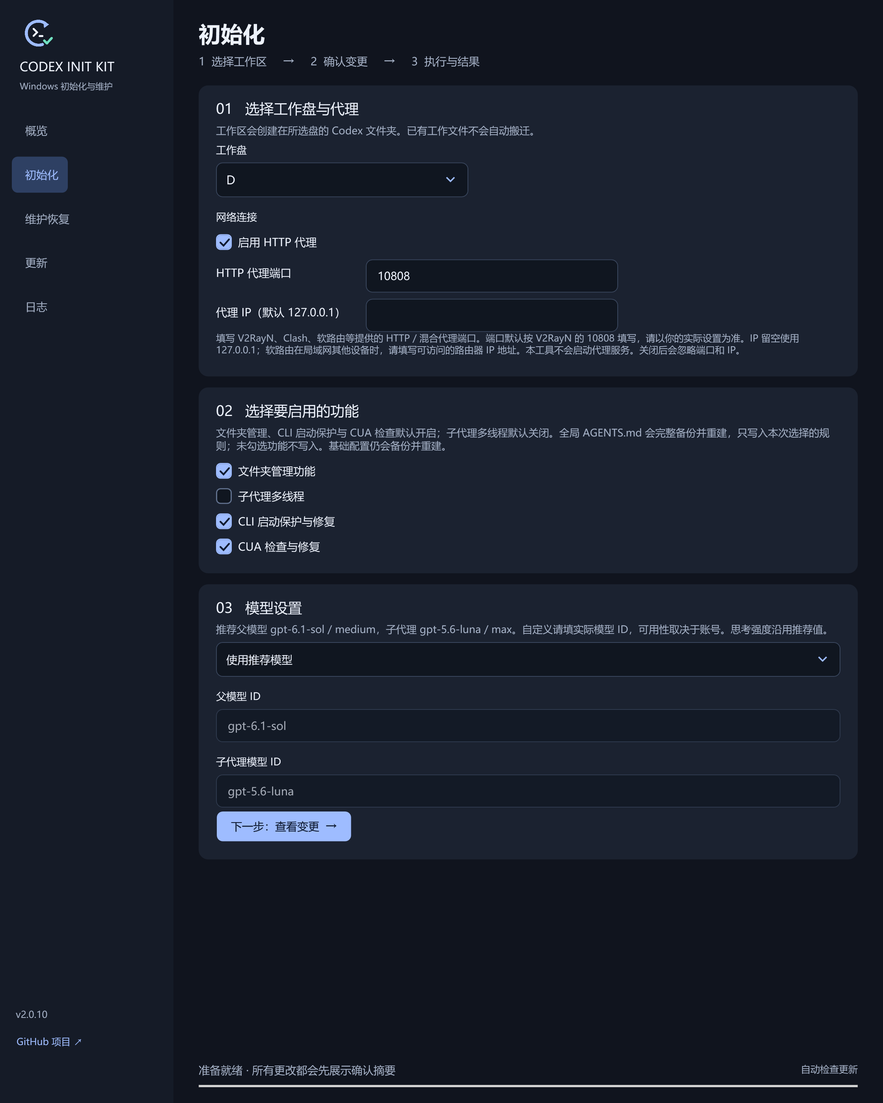
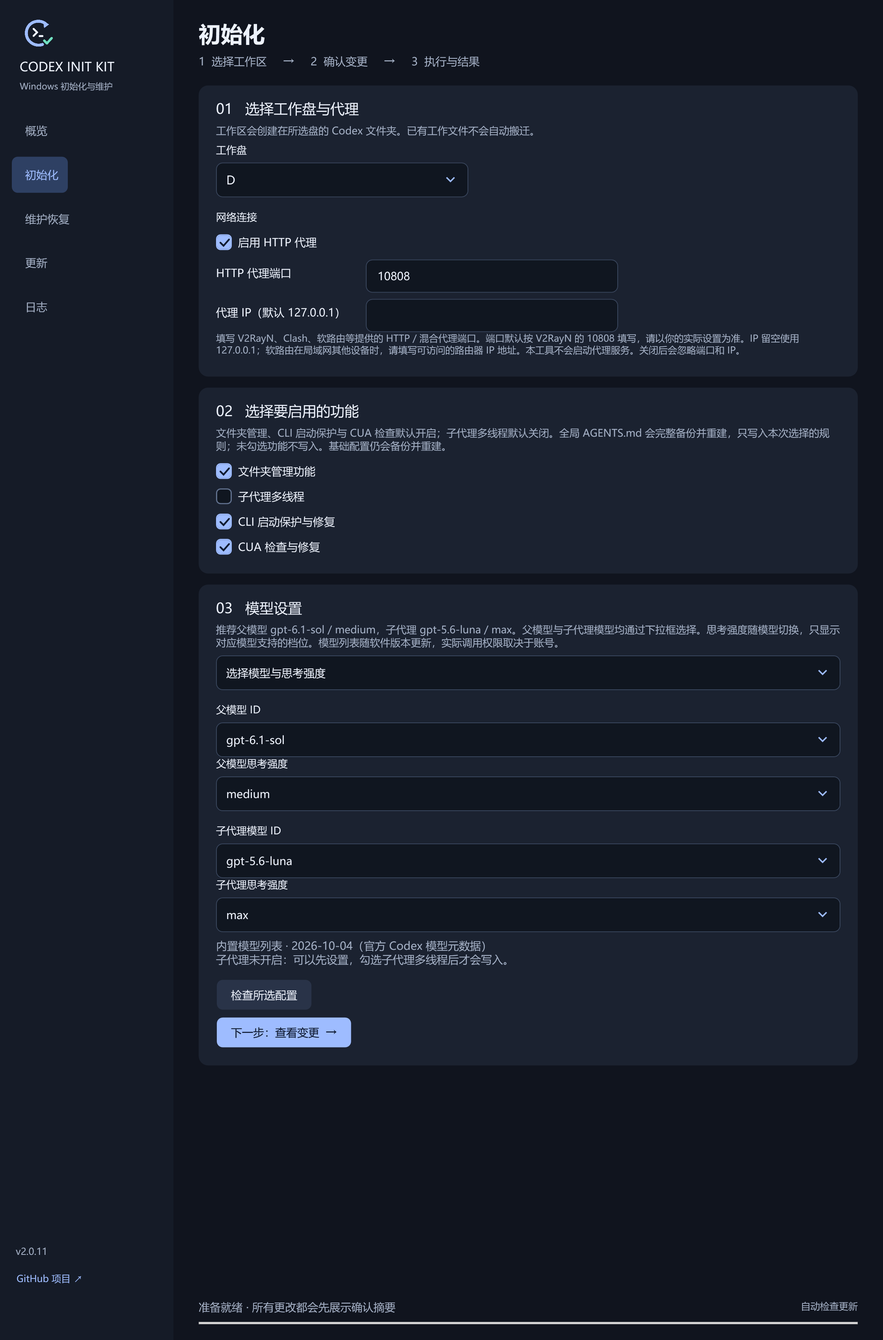
Add preset model and reasoning effort selectors

diff --git a/app/MainWindow.cs b/app/MainWindow.cs
@@ -29,7 +29,10 @@ public class MainWindow : Window {
     readonly CheckBox guard=new CheckBox();
     readonly CheckBox proxyEnabled=new CheckBox(),folderManagement=new CheckBox(),subagents=new CheckBox(),cuaRepair=new CheckBox();
     readonly ComboBox modelMode=new ComboBox();
-    readonly TextBox parentModel=new TextBox(),childModel=new TextBox();
+    readonly ComboBox parentModel=new ComboBox(),childModel=new ComboBox();
+    readonly ComboBox parentEffort=new ComboBox(),childEffort=new ComboBox();
+    readonly TextBlock modelCheck=new TextBlock();
+    ModelCatalog modelCatalog;
     Dictionary<string,object> status, update;
     string page="概览", lastLog="", operationTitle="";
     bool busy, preview, checkingUpdate;
@@ -40,10 +43,13 @@ public class MainWindow : Window {
         proxyHost.Text="192.168.1.20";var settings=Options();if(Convert.ToString(settings["proxyHost"])!="192.168.1.20")throw new InvalidOperationException("Custom proxy host was not preserved");
         proxyHost.Text="not-an-ip";var rejected=false;try{Options();}catch{rejected=true;}if(!rejected)throw new InvalidOperationException("Unsafe proxy host accepted");
         proxyEnabled.IsChecked=false;port.Text="invalid";proxyHost.Text="not-an-ip";settings=Options();if(Port()!=0||port.IsEnabled||proxyHost.IsEnabled||Convert.ToString(settings["proxyHost"])!="")throw new InvalidOperationException("Disabled proxy did not ignore its fields");proxyEnabled.IsChecked=true;port.Text="10808";proxyHost.Text="";
-        subagents.IsChecked=true;modelMode.SelectedIndex=1;parentModel.Text="custom-parent";childModel.Text="custom-child";settings=Options();if(Convert.ToString(settings["parentModel"])!="custom-parent"||Convert.ToString(settings["childModel"])!="custom-child"||!parentModel.IsEnabled||!childModel.IsEnabled)throw new InvalidOperationException("Custom model selection failed");
-        folderManagement.IsChecked=false;subagents.IsChecked=false;cuaRepair.IsChecked=false;guard.IsChecked=false;childModel.Text="";settings=Options();if((bool)settings["folderManagement"]||(bool)settings["subagents"]||(bool)settings["cuaRepair"]||childModel.IsEnabled)throw new InvalidOperationException("Optional setup switches failed");
-        parentModel.Text="bad model";rejected=false;try{Options();}catch{rejected=true;}if(!rejected)throw new InvalidOperationException("Unsafe model ID accepted");
-        parentModel.Text="gpt-6.1-sol";childModel.Text="gpt-5.6-luna";modelMode.SelectedIndex=0;folderManagement.IsChecked=true;subagents.IsChecked=false;cuaRepair.IsChecked=true;guard.IsChecked=true;proxyHost.Text="";
+        subagents.IsChecked=true;modelMode.SelectedIndex=1;parentModel.SelectedItem="gpt-6-astra";childModel.SelectedItem="gpt-6-luna";parentEffort.SelectedItem="ultra";childEffort.SelectedItem="high";settings=Options();if(Convert.ToString(settings["parentModel"])!="gpt-6-astra"||Convert.ToString(settings["childModel"])!="gpt-6-luna"||Convert.ToString(settings["parentEffort"])!="ultra"||Convert.ToString(settings["childEffort"])!="high"||parentModel.IsEditable||childModel.IsEditable||!InitSummary().Contains("gpt-6-luna / high"))throw new InvalidOperationException("Preset model selection failed");
+        if(parentModel.Items.Count!=8||childModel.Items.Count!=8||childEffort.Items.Contains("ultra"))throw new InvalidOperationException("Preset dropdown choices were lost");
+        childModel.SelectedItem="gpt-5.5";if(!childEffort.Items.Cast<string>().SequenceEqual(new[]{"low","medium","high","xhigh"}))throw new InvalidOperationException("Effort choices did not follow model selection");
+        childEffort.ItemsSource=new[]{"ultra"};childEffort.SelectedItem="ultra";rejected=false;try{Options();}catch{rejected=true;}if(!rejected)throw new InvalidOperationException("Unsupported UI effort accepted");RefreshEfforts(childEffort,"gpt-5.5","max");
+        parentModel.SelectedItem=null;parentModel.Text="vendor/custom";rejected=false;try{Options();}catch{rejected=true;}if(!rejected)throw new InvalidOperationException("Unlisted model accepted");parentModel.SelectedItem="gpt-6.1-sol";
+        folderManagement.IsChecked=false;subagents.IsChecked=false;cuaRepair.IsChecked=false;guard.IsChecked=false;settings=Options();if((bool)settings["folderManagement"]||(bool)settings["subagents"]||(bool)settings["cuaRepair"]||!childModel.IsEnabled||Convert.ToString(settings["childEffort"])!="max")throw new InvalidOperationException("Optional setup switches failed");
+        modelMode.SelectedIndex=0;folderManagement.IsChecked=true;subagents.IsChecked=false;cuaRepair.IsChecked=true;guard.IsChecked=true;proxyHost.Text="";
         var completionDialog=CreateInitializationCompletedDialog();var completionRoot=completionDialog.Content as Border;var completionPanel=completionRoot==null?null:completionRoot.Child as StackPanel;if((IsVisible&&completionDialog.Owner!=this)||completionDialog.Title!="已完成初始化"||completionPanel==null||completionPanel.Children.OfType<Button>().Count()!=1||!completionPanel.Children.OfType<TextBlock>().Any(x=>x.Text=="已完成初始化"))throw new InvalidOperationException("Initialization completion dialog is not themed or single-action");
         status=new Dictionary<string,object>{{"runtimeMode","DesktopNative"},{"runtimeModeDetail","桌面应用自带 CLI"},{"currentCliPath",""},{"protectionInstalled",false}};Navigate("概览");UpdateLayout();VerifyRuntimeDisplay("DesktopNative","由桌面应用自动选择");status["runtimeMode"]="OfficialStandalone";status["runtimeModeDetail"]="官方独立 CLI";status["currentCliPath"]="C:\\Users\\Test\\.codex\\bin\\codex.exe";Navigate("概览");UpdateLayout();VerifyRuntimeDisplay("OfficialStandalone","C:\\Users\\Test\\.codex\\bin\\codex.exe");status["runtimeMode"]="Unknown";Navigate("概览");UpdateLayout();VerifyRuntimeDisplay("Unknown","C:\\Users\\Test\\.codex\\bin\\codex.exe");status=null;
         foreach(var name in new[]{"概览","初始化","维护恢复","更新","日志","初始化"}) { Navigate(name); Measure(new Size(1120,800)); Arrange(new Rect(0,0,1120,800)); UpdateLayout(); }
@@ -61,7 +67,7 @@ public class MainWindow : Window {
         update=new Dictionary<string,object>{{"version",new Version(new Version(Core.Version).Major,new Version(Core.Version).Minor,new Version(Core.Version).Build+1).ToString()}};ApplyUpdateState();Navigate("概览");var updateView=(FrameworkElement)Content;updateView.Measure(new Size(1120,800));updateView.Arrange(new Rect(0,0,1120,800));updateView.UpdateLayout();var updateBitmap=new RenderTargetBitmap(1120,800,96,96,PixelFormats.Pbgra32);updateBitmap.Render(updateView);var updateEncoder=new PngBitmapEncoder();updateEncoder.Frames.Add(BitmapFrame.Create(updateBitmap));using(var file=File.Create(Path.Combine(directory,"检测到更新.png")))updateEncoder.Save(file);update=null;ApplyUpdateState();
     }
     public MainWindow(bool isPreview) {
-        preview=isPreview; Title="Codex Init Kit"; Width=1120; Height=800; MinWidth=940; MinHeight=720; WindowStartupLocation=WindowStartupLocation.CenterScreen;
+        preview=isPreview;modelCatalog=ModelCatalog.Preset(); Title="Codex Init Kit"; Width=1120; Height=800; MinWidth=940; MinHeight=720; WindowStartupLocation=WindowStartupLocation.CenterScreen;
         Icon=Brand.Logo();
         Background=BackgroundBrush; Foreground=TextBrush; FontFamily=new FontFamily("Microsoft YaHei UI"); FontSize=14;
         using(var styles=System.Reflection.Assembly.GetExecutingAssembly().GetManifestResourceStream("UI.Controls.xaml"))Resources.MergedDictionaries.Add((ResourceDictionary)System.Windows.Markup.XamlReader.Load(styles));
@@ -83,13 +89,21 @@ public class MainWindow : Window {
         log.IsReadOnly=true; log.AcceptsReturn=true; log.TextWrapping=TextWrapping.NoWrap; log.VerticalScrollBarVisibility=ScrollBarVisibility.Auto; log.HorizontalScrollBarVisibility=ScrollBarVisibility.Auto; log.FontFamily=new FontFamily("Consolas"); log.FontSize=12; log.Background=B("#101620"); log.Foreground=TextBrush; log.BorderThickness=new Thickness(0); log.Padding=new Thickness(14); log.Height=350;
         drive.ItemsSource=DriveInfo.GetDrives().Where(x=>x.DriveType==DriveType.Fixed && x.IsReady).Select(x=>x.Name.Substring(0,1)).ToArray(); drive.SelectedItem="D"; if(drive.SelectedIndex<0) drive.SelectedIndex=0;
         drive.Style=(Style)Resources["KitCombo"];drive.FontSize=15;drive.Width=320;drive.HorizontalAlignment=HorizontalAlignment.Left;
-        foreach(var input in new[]{port,proxyHost,parentModel,childModel})input.Style=(Style)Resources["KitInput"];
+        foreach(var input in new[]{port,proxyHost})input.Style=(Style)Resources["KitInput"];
         port.Text="10808";port.Width=320;port.HorizontalAlignment=HorizontalAlignment.Left;
         proxyHost.Text="";proxyHost.Width=320;proxyHost.HorizontalAlignment=HorizontalAlignment.Left;proxyHost.ToolTip="留空使用 127.0.0.1。软路由在局域网其他设备时，请填写可访问的路由器 IP 地址；本工具不会启动代理服务。";
         var checks=new[]{proxyEnabled,folderManagement,subagents,guard,cuaRepair};var labels=new[]{"启用 HTTP 代理","文件夹管理功能","子代理多线程","CLI 启动保护与修复","CUA 检查与修复"};for(int i=0;i<checks.Length;i++){checks[i].Style=(Style)Resources["KitCheck"];checks[i].Content=labels[i];checks[i].IsChecked=i!=2;}
         proxyEnabled.Checked+=(s,e)=>{port.IsEnabled=true;proxyHost.IsEnabled=true;};proxyEnabled.Unchecked+=(s,e)=>{port.IsEnabled=false;proxyHost.IsEnabled=false;};
-        modelMode.Style=(Style)Resources["KitCombo"];modelMode.ItemsSource=new[]{"使用推荐模型","自定义父模型与子代理模型"};modelMode.SelectedIndex=0;modelMode.SelectionChanged+=(s,e)=>UpdateModelInputs();
-        parentModel.Text="gpt-6.1-sol";childModel.Text="gpt-5.6-luna";subagents.Checked+=(s,e)=>UpdateModelInputs();subagents.Unchecked+=(s,e)=>UpdateModelInputs();UpdateModelInputs();
+        modelMode.Style=(Style)Resources["KitCombo"];modelMode.ItemsSource=new[]{"使用推荐模型","选择模型与思考强度"};modelMode.SelectedIndex=0;modelMode.SelectionChanged+=(s,e)=>UpdateModelInputs();
+        parentEffort.Style=(Style)Resources["KitCombo"];childEffort.Style=(Style)Resources["KitCombo"];
+        parentEffort.ItemsSource=ModelCatalog.CommonEfforts;parentEffort.SelectedItem="medium";childEffort.ItemsSource=ModelCatalog.CommonEfforts;childEffort.SelectedItem="max";
+        parentModel.Text="gpt-6.1-sol";childModel.Text="gpt-5.6-luna";
+        foreach(var input in new[]{parentModel,childModel}){input.Style=(Style)Resources["KitCombo"];input.IsEditable=false;input.IsTextSearchEnabled=true;input.FontSize=14;input.ToolTip="仅可从预设官方模型列表选择。";}
+        RefreshModelChoices();
+        var modelTextProperty=System.ComponentModel.DependencyPropertyDescriptor.FromProperty(ComboBox.TextProperty,typeof(ComboBox));modelTextProperty.AddValueChanged(parentModel,(s,e)=>RefreshEfforts(parentEffort,parentModel.Text,"medium"));modelTextProperty.AddValueChanged(childModel,(s,e)=>RefreshEfforts(childEffort,childModel.Text,"max"));
+        parentModel.SelectionChanged+=(s,e)=>{if(parentModel.SelectedItem!=null)RefreshEfforts(parentEffort,Convert.ToString(parentModel.SelectedItem),"medium");};childModel.SelectionChanged+=(s,e)=>{if(childModel.SelectedItem!=null)RefreshEfforts(childEffort,Convert.ToString(childModel.SelectedItem),"max");};
+        modelCheck.Foreground=MutedBrush;modelCheck.TextWrapping=TextWrapping.Wrap;modelCheck.Margin=new Thickness(0,8,0,12);
+        subagents.Checked+=(s,e)=>UpdateModelInputs();subagents.Unchecked+=(s,e)=>UpdateModelInputs();UpdateModelInputs();
         Closing+=(s,e)=>{if(busy){e.Cancel=true; MessageBox.Show(this,"操作正在执行，请等待结果后再关闭窗口。","正在执行",MessageBoxButton.OK,MessageBoxImage.Information);}};
         Navigate("概览"); Loaded+=async(s,e)=>{if(!preview) await Task.WhenAll(Run("status","读取当前状态",false),CheckUpdates(true));};
     }
@@ -105,7 +119,7 @@ public class MainWindow : Window {
     Button Link(string label,Action action) { var b=Button(label,action,false); b.Background=Brushes.Transparent; b.Foreground=Accent; b.Padding=new Thickness(0,6,0,6); b.FontSize=12; return b; }
     StackPanel Card(string title,string description) { var p=new StackPanel{Margin=new Thickness(22,18,22,18)}; p.Children.Add(T(title,18,TextBrush)); if(description.Length>0)p.Children.Add(T(description,13,MutedBrush)); var box=new Border{Background=PanelBrush,CornerRadius=new CornerRadius(12),Margin=new Thickness(0,0,0,14),Child=p}; content.Children.Add(box); return p; }
     void Row(StackPanel parent,params UIElement[] items) { var row=new WrapPanel(); foreach(var item in items)row.Children.Add(item); parent.Children.Add(row); }
-    void Navigate(string name) { foreach(var control in new FrameworkElement[]{drive,port,proxyHost,guard,log,proxyEnabled,folderManagement,subagents,cuaRepair,modelMode,parentModel,childModel}) { var parent=control.Parent as Panel; if(parent!=null)parent.Children.Remove(control); } page=name; content.Children.Clear(); heading.Text=name; foreach(var b in navigation){b.Background=Convert.ToString(b.Content)==name?B("#2E4063"):Brushes.Transparent; b.Foreground=Convert.ToString(b.Content)==name?Accent:MutedBrush;}
+    void Navigate(string name) { foreach(var control in new FrameworkElement[]{drive,port,proxyHost,guard,log,proxyEnabled,folderManagement,subagents,cuaRepair,modelMode,parentModel,childModel,parentEffort,childEffort,modelCheck}) { var parent=control.Parent as Panel; if(parent!=null)parent.Children.Remove(control); } page=name; content.Children.Clear(); heading.Text=name; foreach(var b in navigation){b.Background=Convert.ToString(b.Content)==name?B("#2E4063"):Brushes.Transparent; b.Foreground=Convert.ToString(b.Content)==name?Accent:MutedBrush;}
         if(name=="概览")Overview(); else if(name=="初始化")Wizard(); else if(name=="维护恢复")Maintenance(); else if(name=="更新")Updates(); else LogsPage();
     }
     void Overview() {
@@ -124,11 +138,16 @@ public class MainWindow : Window {
     static string RuntimeMode(object value) { var text=Convert.ToString(value);if(text=="DesktopNative")return "桌面原生";if(text=="OfficialStandalone")return "官方独立 CLI";return "需要检查"; }
     void VerifyRuntimeDisplay(string mode,string path) { var card=content.Children.Count>1?content.Children[1] as Border:null;var panel=card==null?null:card.Child as StackPanel;var texts=panel==null?new string[0]:panel.Children.OfType<TextBlock>().Select(x=>x.Text).ToArray();if(!texts.Any(x=>x.Contains(RuntimeMode(mode)))||!texts.Any(x=>x.Contains(path)))throw new InvalidOperationException("Runtime mode status was not displayed"); }
     int Port() { if(proxyEnabled.IsChecked!=true)return 0;int v; if(!int.TryParse(port.Text,out v)||v<1||v>65535)throw new InvalidOperationException("代理端口需为 1–65535 的整数。"); return v; }
-    void UpdateModelInputs(){parentModel.IsEnabled=modelMode.SelectedIndex==1;childModel.IsEnabled=modelMode.SelectedIndex==1&&subagents.IsChecked==true;}
-    string Model(TextBox input,string fallback){var value=modelMode.SelectedIndex==1?input.Text.Trim():fallback;if(!System.Text.RegularExpressions.Regex.IsMatch(value,"^[A-Za-z0-9][A-Za-z0-9._/:+-]{0,127}$"))throw new InvalidOperationException("请输入有效模型 ID，例如 gpt-6.1-sol；不能包含空格。");return value;}
+    void UpdateModelInputs(){var custom=modelMode.SelectedIndex==1;parentModel.IsEnabled=custom;childModel.IsEnabled=custom;parentEffort.IsEnabled=custom;childEffort.IsEnabled=custom;if(!custom){parentModel.SelectedItem="gpt-6.1-sol";childModel.SelectedItem="gpt-5.6-luna";parentEffort.SelectedItem="medium";childEffort.SelectedItem="max";}RefreshEfforts(parentEffort,Convert.ToString(parentModel.SelectedItem),"medium");RefreshEfforts(childEffort,Convert.ToString(childModel.SelectedItem),"max");modelCheck.Text=modelCatalog.Source+"\n"+(subagents.IsChecked==true?"子代理已开启：将写入所选子代理模型和思考强度。":"子代理未开启：可以先设置，勾选子代理多线程后才会写入。");}
+    void RefreshEfforts(ComboBox combo,string model,string fallback){CatalogModel entry;var values=modelCatalog.Models.TryGetValue((model??"").Trim(),out entry)?entry.Efforts:new string[0];var current=Convert.ToString(combo.SelectedItem);combo.ItemsSource=values;combo.SelectedItem=values.Contains(current)?current:values.Contains(fallback)?fallback:entry!=null&&values.Contains(entry.DefaultEffort)?entry.DefaultEffort:values.FirstOrDefault();}
+    string Effort(ComboBox combo,string fallback){return modelMode.SelectedIndex==1?Convert.ToString(combo.SelectedItem):fallback;}
+    void CheckModels(){try{modelCatalog=ModelCatalog.Preset();RefreshModelChoices();RefreshEfforts(parentEffort,parentModel.Text,"medium");RefreshEfforts(childEffort,childModel.Text,"max");var p=Model(parentModel,"gpt-6.1-sol");var c=Model(childModel,"gpt-5.6-luna");modelCheck.Text=modelCatalog.Source+"\n"+modelCatalog.Check(p,Effort(parentEffort,"medium"))+"\n"+modelCatalog.Check(c,Effort(childEffort,"max"))+"\n预设列表不代表当前账号一定有调用权限。";}catch(Exception ex){modelCheck.Text=ex.Message;}}
+    void RefreshModelChoices(){var values=modelCatalog.Models.Keys.ToArray();foreach(var combo in new[]{parentModel,childModel}){var current=Convert.ToString(combo.SelectedItem);if(current.Length==0)current=combo==parentModel?"gpt-6.1-sol":"gpt-5.6-luna";combo.ItemsSource=values;combo.SelectedItem=values.Contains(current)?current:values.FirstOrDefault();}}
+    string Model(ComboBox input,string fallback){var value=modelMode.SelectedIndex==1?Convert.ToString(input.SelectedItem):fallback;if(!modelCatalog.Models.ContainsKey(value))throw new InvalidOperationException("请从下拉框选择预设模型。");return value;}
     string ProxyHost() { if(proxyEnabled.IsChecked!=true)return "";var text=(proxyHost.Text??"").Trim();if(text.Length==0)return Core.DefaultProxyHost;System.Net.IPAddress address;if(!System.Net.IPAddress.TryParse(text,out address))throw new InvalidOperationException("代理 IP 必须是有效的 IPv4 或 IPv6 地址。");return address.ToString(); }
-    Dictionary<string,object> Options(){return new Dictionary<string,object>{{"proxyHost",ProxyHost()},{"folderManagement",folderManagement.IsChecked==true},{"subagents",subagents.IsChecked==true},{"cuaRepair",cuaRepair.IsChecked==true},{"parentModel",Model(parentModel,"gpt-6.1-sol")},{"childModel",subagents.IsChecked==true?Model(childModel,"gpt-5.6-luna"):"gpt-5.6-luna"}};}
+    Dictionary<string,object> Options(){var p=Model(parentModel,"gpt-6.1-sol");var pe=Effort(parentEffort,"medium");var c=subagents.IsChecked==true?Model(childModel,"gpt-5.6-luna"):"gpt-5.6-luna";var ce=subagents.IsChecked==true?Effort(childEffort,"max"):"max";modelCatalog.Check(p,pe);if(subagents.IsChecked==true)modelCatalog.Check(c,ce);return new Dictionary<string,object>{{"proxyHost",ProxyHost()},{"folderManagement",folderManagement.IsChecked==true},{"subagents",subagents.IsChecked==true},{"cuaRepair",cuaRepair.IsChecked==true},{"parentModel",p},{"parentEffort",pe},{"childModel",c},{"childEffort",ce}};}
     Dictionary<string,object> ProxyOptions(){return new Dictionary<string,object>{{"proxyHost",ProxyHost()}};}
+    string ModelChecks(Dictionary<string,object> options){return modelCatalog.Source+"\n"+modelCatalog.Check(Convert.ToString(options["parentModel"]),Convert.ToString(options["parentEffort"]))+(subagents.IsChecked==true?"\n"+modelCatalog.Check(Convert.ToString(options["childModel"]),Convert.ToString(options["childEffort"])):"")+"\n核对结果不代表账号实时调用权限。";}
     string ProxySummary(){var value=Port();if(value==0)return "关闭（不写入本地 HTTP 代理）";var host=ProxyHost();if(host.Contains(":")&&!host.StartsWith("["))host="["+host+"]";return "http://"+host+":"+value;}
     string Drive() { if(drive.SelectedItem==null)throw new InvalidOperationException("请选择可用的工作盘。"); return Convert.ToString(drive.SelectedItem); }
     void Wizard() {
@@ -141,7 +160,7 @@ public class MainWindow : Window {
             var hostRow=new StackPanel{Orientation=Orientation.Horizontal};hostRow.Children.Add(new TextBlock{Text="代理 IP（默认 127.0.0.1）",Width=180,Foreground=TextBrush,VerticalAlignment=VerticalAlignment.Center,Margin=new Thickness(0,0,10,8)});hostRow.Children.Add(proxyHost);proxyRows.Children.Add(hostRow);p.Children.Add(proxyRows);
             p.Children.Add(T("填写 V2RayN、Clash、软路由等提供的 HTTP／混合代理端口。端口默认按 V2RayN 的 10808 填写，请以你的实际设置为准。IP 留空使用 127.0.0.1；软路由在局域网其他设备时，请填写可访问的路由器 IP 地址。本工具不会启动代理服务。关闭后会忽略端口和 IP。",12,MutedBrush));
             var features=Card("02   选择要启用的功能","文件夹管理、CLI 启动保护与 CUA 检查默认开启；子代理多线程默认关闭。全局 AGENTS.md 会完整备份并重建，只写入本次选择的规则；未勾选功能不写入。基础配置仍会备份并重建。");foreach(var check in new[]{folderManagement,subagents,guard,cuaRepair})features.Children.Add(check);
-            var models=Card("03   模型设置","推荐父模型 gpt-6.1-sol / medium，子代理 gpt-5.6-luna / max。自定义请填实际模型 ID，可用性取决于账号。思考强度沿用推荐值。");models.Children.Add(modelMode);models.Children.Add(T("\n父模型 ID",13,TextBrush));models.Children.Add(parentModel);models.Children.Add(T("\n子代理模型 ID",13,TextBrush));models.Children.Add(childModel);
+            var models=Card("03   模型设置","推荐父模型 gpt-6.1-sol / medium，子代理 gpt-5.6-luna / max。父模型与子代理模型均通过下拉框选择。思考强度随模型切换，只显示对应模型支持的档位。模型列表随软件版本更新，实际调用权限取决于账号。");models.Children.Add(modelMode);models.Children.Add(T("\n父模型 ID",13,TextBrush));models.Children.Add(parentModel);models.Children.Add(T("父模型思考强度",13,TextBrush));models.Children.Add(parentEffort);models.Children.Add(T("\n子代理模型 ID",13,TextBrush));models.Children.Add(childModel);models.Children.Add(T("子代理思考强度",13,TextBrush));models.Children.Add(childEffort);models.Children.Add(modelCheck);models.Children.Add(Button("检查所选配置",()=>CheckModels(),false));
             models.Children.Add(Button("下一步：查看变更  →",()=>{try{Port();Drive();Options();wizard=1;Navigate("初始化");}catch(Exception ex){Error(ex);}},true));
         } else if(wizard==1) {
             var p=Card("02   确认初始化","将更新当前 Windows 用户的 Codex 配置。执行时会请求管理员授权。");
@@ -149,7 +168,7 @@ public class MainWindow : Window {
             Row(p,Button("返回修改",()=>{wizard=0;Navigate("初始化");},false),Button("确认并开始初始化",async()=>{if(Confirm("开始初始化",InitSummary()+"\n\n将停止正在运行的 Codex 进程。请先保存其他窗口的工作。")){wizard=2;Navigate("初始化");await Run("initialize","初始化",false);}},true));
         } else { var p=Card("03   执行与结果",busy?"正在执行，请保留窗口。":"完整结果与备份位置见下方日志。"); p.Children.Add(log); Row(p,Button("查看全部日志",()=>Navigate("日志"),false),Button("重新设置",()=>{if(!busy){wizard=0;Navigate("初始化");}},false)); }
     }
-    string InitSummary() {var options=Options();return "工作盘："+Drive()+":\n父模型："+options["parentModel"]+" / medium\n子代理："+(subagents.IsChecked==true?options["childModel"]+" / max":"关闭，不写入子代理规则")+"\n代理："+ProxySummary()+"\n文件夹管理："+(folderManagement.IsChecked==true?"创建并绑定标准目录":"跳过")+"\nCUA 检查与修复："+(cuaRepair.IsChecked==true?"按需执行":"跳过")+"\nCLI 启动保护与修复："+(guard.IsChecked==true?"安装，包含登录自动维护":"跳过")+"\n基础配置及全局 AGENTS.md 将完整备份并重建；原自定义指令只保存在备份中。项目内的 AGENTS.md 不变。更新用户 PATH。初始化和 CUA 分别备份。";}
+    string InitSummary() {var options=Options();return "工作盘："+Drive()+":\n父模型："+options["parentModel"]+" / "+options["parentEffort"]+"\n子代理："+(subagents.IsChecked==true?options["childModel"]+" / "+options["childEffort"]:"关闭，不写入子代理规则")+"\n代理："+ProxySummary()+"\n文件夹管理："+(folderManagement.IsChecked==true?"创建并绑定标准目录":"跳过")+"\nCUA 检查与修复："+(cuaRepair.IsChecked==true?"按需执行":"跳过")+"\nCLI 启动保护与修复："+(guard.IsChecked==true?"安装，包含登录自动维护":"跳过")+"\n"+ModelChecks(options)+"\n基础配置及全局 AGENTS.md 将完整备份并重建；原自定义指令只保存在备份中。项目内的 AGENTS.md 不变。更新用户 PATH。初始化和 CUA 分别备份。";}
     void ActionCard(string title,string description,string label,string op,bool danger) {
         var p=Card(title,description); p.Children.Add(Button(label,async()=>await Run(op,title,true),!danger));
     }

diff --git a/app/ModelCatalog.cs b/app/ModelCatalog.cs
@@ -1,0 +1,57 @@
+using System;
+using System.Collections;
+using System.Collections.Generic;
+using System.IO;
+using System.Linq;
+using System.Text;
+using System.Text.RegularExpressions;
+using System.Web.Script.Serialization;
+
+namespace CodexKit {
+public sealed class CatalogModel {
+    public string Id, DefaultEffort;
+    public string[] Efforts;
+}
+public sealed class ModelCatalog {
+    public readonly Dictionary<string,CatalogModel> Models=new Dictionary<string,CatalogModel>(StringComparer.Ordinal);
+    public string Source="尚未读取本机模型列表";
+    public static readonly string[] CommonEfforts={"none","minimal","low","medium","high","xhigh","max","ultra"};
+    public static bool ValidId(string value){return value!=null&&Regex.IsMatch(value,"^[A-Za-z0-9][A-Za-z0-9._/:+-]{0,127}\\z");}
+    public static ModelCatalog Preset(){
+        var result=new ModelCatalog{Source="内置模型列表 · 2026-10-04（官方 Codex 模型元数据）"};
+        foreach(var id in new[]{"gpt-6.1-sol","gpt-6-astra","gpt-6-sol","gpt-6-luna","gpt-5.6-sol","gpt-5.6-terra","gpt-5.6-luna","gpt-5.5"}){
+            var efforts=id=="gpt-5.5"?new[]{"low","medium","high","xhigh"}:id.EndsWith("-luna")?new[]{"low","medium","high","xhigh","max"}:new[]{"low","medium","high","xhigh","max","ultra"};
+            result.Models[id]=new CatalogModel{Id=id,DefaultEffort="medium",Efforts=efforts};
+        }
+        return result;
+    }
+    public static ModelCatalog Parse(string json) {
+        var result=new ModelCatalog();var parser=new JavaScriptSerializer{MaxJsonLength=4*1024*1024};
+        var root=parser.DeserializeObject(json) as Dictionary<string,object>;
+        if(root==null||!root.ContainsKey("models"))throw new InvalidDataException("模型列表格式无法识别。");
+        var models=root["models"] as IEnumerable;if(models==null)throw new InvalidDataException("模型列表为空。");
+        foreach(var item in models) {
+            var row=item as Dictionary<string,object>;if(row==null)continue;
+            var id=Get(row,"slug");if(!ValidId(id)||Get(row,"visibility")=="hide")continue;
+            var levels=new List<string>();object raw;
+            if(row.TryGetValue("supported_reasoning_levels",out raw)&&raw is IEnumerable)foreach(var level in (IEnumerable)raw){var entry=level as Dictionary<string,object>;if(entry==null)continue;var effort=Get(entry,"effort");if(Regex.IsMatch(effort,"^[A-Za-z][A-Za-z0-9_-]{0,31}$")&&!levels.Contains(effort))levels.Add(effort);}
+            if(levels.Count>0)result.Models[id]=new CatalogModel{Id=id,DefaultEffort=Get(row,"default_reasoning_level"),Efforts=levels.ToArray()};
+        }
+        if(result.Models.Count==0)throw new InvalidDataException("本机没有可供核对的模型记录。");
+        DateTimeOffset fetched;var timestamp=Get(root,"fetched_at");
+        result.Source="本机 Codex 模型缓存";
+        if(DateTimeOffset.TryParse(timestamp,out fetched)){result.Source+=" · "+fetched.ToLocalTime().ToString("yyyy-MM-dd HH:mm");if(DateTimeOffset.UtcNow-fetched>TimeSpan.FromHours(24))result.Source+="（超过 24 小时）";}
+        return result;
+    }
+    static string Get(Dictionary<string,object> row,string key){object value;return row.TryGetValue(key,out value)?Convert.ToString(value):"";}
+    public string Check(string model,string effort) {
+        if(!ValidId(model))throw new InvalidOperationException("模型 ID 格式不正确，例如 gpt-6.1-sol；不能填写展示名称或空格。");
+        if(!Regex.IsMatch(effort??"","^[A-Za-z][A-Za-z0-9_-]{0,31}$"))throw new InvalidOperationException("请选择有效的思考强度。");
+        CatalogModel entry;
+        if(!Models.TryGetValue(model,out entry))throw new InvalidOperationException("模型不在当前列表中，请重新检查并从下拉框选择。");
+        if(entry.Efforts.Length==0)return "已找到 "+model+"，但列表未提供思考强度；该强度尚未验证。";
+        if(!entry.Efforts.Contains(effort))throw new InvalidOperationException(model+" 的本机记录不支持 "+effort+"；支持："+string.Join("、",entry.Efforts));
+        return "配置核对通过："+model+" / "+effort+"。";
+    }
+}
+}

diff --git a/app/Program.cs b/app/Program.cs
@@ -54,6 +54,10 @@ public static class Program {
             var testScript="$ErrorActionPreference='Stop';try { & '"+Path.Combine(dir,"Backend.Tests.ps1").Replace("'","''")+"' -PayloadRoot '"+dir.Replace("'","''")+"' -BackendPath '"+Path.Combine(dir,"Backend.ps1").Replace("'","''")+"';exit 0 } catch { $_|Out-String|Write-Output;exit 1 }";
             info.Arguments="-NoProfile -NonInteractive -EncodedCommand "+Convert.ToBase64String(Encoding.Unicode.GetBytes(testScript));
             using(var proc=Process.Start(info)){var output=proc.StandardOutput.ReadToEnd()+proc.StandardError.ReadToEnd();proc.WaitForExit();checks["backend_regressions"]=proc.ExitCode==0;if(proc.ExitCode!=0)errors.Add(output);}
+            var catalog=ModelCatalog.Parse("{\"models\":[{\"slug\":\"fixture-model\",\"default_reasoning_level\":\"high\",\"supported_reasoning_levels\":[{\"effort\":\"high\"},{\"effort\":\"low\"}]}]}");
+            if(!catalog.Check("fixture-model","high").Contains("核对通过")||catalog.Models["fixture-model"].Efforts[0]!="high")throw new InvalidDataException("Model catalog validation or ordering failed");
+            foreach(var bad in new[]{"display name","bad;model","fixture-model\n"})if(ModelCatalog.ValidId(bad))throw new InvalidDataException("Unsafe model catalog ID accepted");
+            bool unsupported=false;try{catalog.Check("fixture-model","ultra");}catch(InvalidOperationException){unsupported=true;}if(!unsupported)throw new InvalidDataException("Unsupported model effort accepted");unsupported=false;try{catalog.Check("vendor/custom:v1","max");}catch(InvalidOperationException){unsupported=true;}if(!unsupported)throw new InvalidDataException("Unlisted model accepted");var preset=ModelCatalog.Preset();if(preset.Models.Count!=8||preset.Models["gpt-5.6-luna"].Efforts.Contains("ultra"))throw new InvalidDataException("Preset model choices changed");checks["model_catalog_validation"]=true;
             var app=new Application(); var window=new MainWindow(true);window.VerifyPages(); checks["pages_and_navigation"]=true; window.Close();
             checks["worker_rejects_invalid_operation"]=Core.Worker(new[]{"--worker","invalid",Guid.NewGuid().ToString("N"),"D","10808","0",Core.Sid})==64;
             checks["worker_rejects_invalid_drive"]=Core.Worker(new[]{"--worker","status",Guid.NewGuid().ToString("N"),"&","10808","0",Core.Sid})==64;

diff --git a/app/Core.cs b/app/Core.cs
@@ -16,7 +16,7 @@ using System.Net.Sockets;
 
 namespace CodexKit {
 public static class Core {
-    public const string Version = "2.0.10";
+    public const string Version = "2.0.11";
     public const string Repository = "BerryFuwawa/codex-init-kit";
     public static readonly string Root = Path.Combine(Environment.GetFolderPath(Environment.SpecialFolder.LocalApplicationData), "CodexInitKit", "Desktop");
     public static readonly JavaScriptSerializer Json = new JavaScriptSerializer();

diff --git a/app/AssemblyInfo.cs b/app/AssemblyInfo.cs
@@ -2,5 +2,5 @@ using System.Reflection;
 [assembly:AssemblyTitle("Codex Init Kit")]
 [assembly:AssemblyDescription("Codex workspace initialization, CUA repair and startup protection")]
 [assembly:AssemblyProduct("Codex Init Kit Desktop")]
-[assembly:AssemblyVersion("2.0.10.0")]
-[assembly:AssemblyFileVersion("2.0.10.0")]
+[assembly:AssemblyVersion("2.0.11.0")]
+[assembly:AssemblyFileVersion("2.0.11.0")]

diff --git a/docs/Desktop.md b/docs/Desktop.md
@@ -1,4 +1,4 @@
-# Codex Init Kit Desktop 2.0.10
+# Codex Init Kit Desktop 2.0.11
 
 这个程序把初始化、电脑操作组件修复和启动维护放进一个窗口。下载 `CodexInitKit.exe` 就能使用，所需脚本已包含在程序里。
 
@@ -26,9 +26,9 @@ CUA 组件目录为 `%LOCALAPPDATA%\OpenAI\Codex\runtimes\cua_node`。有些 Win
 
 ## 获取与启动
 
-v2.0.10 已发布：[BerryFuwawa/codex-init-kit v2.0.10](https://github.com/BerryFuwawa/codex-init-kit/releases/tag/v2.0.10)。下载 [CodexInitKit.exe](https://github.com/BerryFuwawa/codex-init-kit/releases/download/v2.0.10/CodexInitKit.exe) 即可启动，无需旁置 CMD 或自行编译。环境要求为 Windows x64、.NET Framework 4.8 和 Windows PowerShell 5.1；EXE 尚未做代码签名。
+v2.0.11 已发布：[BerryFuwawa/codex-init-kit v2.0.11](https://github.com/BerryFuwawa/codex-init-kit/releases/tag/v2.0.11)。下载 [CodexInitKit.exe](https://github.com/BerryFuwawa/codex-init-kit/releases/download/v2.0.11/CodexInitKit.exe) 即可启动，无需旁置 CMD 或自行编译。环境要求为 Windows x64、.NET Framework 4.8 和 Windows PowerShell 5.1；EXE 尚未做代码签名。
 
-正式文件的 SHA-256 与大小可在发布页资产信息和 [SHA256SUMS.txt](https://github.com/BerryFuwawa/codex-init-kit/releases/download/v2.0.10/SHA256SUMS.txt) 中核对。
+正式文件的 SHA-256 与大小可在发布页资产信息和 [SHA256SUMS.txt](https://github.com/BerryFuwawa/codex-init-kit/releases/download/v2.0.11/SHA256SUMS.txt) 中核对。
 
 首次使用可直接下载 EXE。已有版本可启动后检查更新，也可手动下载替换。
 
@@ -38,7 +38,7 @@ v2.0.10 已发布：[BerryFuwawa/codex-init-kit v2.0.10](https://github.com/Berr
 
 ## 页面
 
-「初始化」支持代理开关（默认开启，端口 `10808`）、四项可选功能（子代理默认关闭，其余默认开启），以及推荐／自定义模型。每次完整初始化都会先完整备份全局 `CODEX_HOME\AGENTS.md`，再用RTK 引用和基础工作规则重建；文件夹管理块、Luna 子代理块只在对应选项勾选时追加。子代理多线程未勾选时会将 `multi_agent` 设为 `false`，并且不写入 Luna 块或基础规则中的 `SUBAGENTS` 段落。旧的全局自定义内容只保存在本次会话备份中，项目目录中的 `AGENTS.md` 不受影响。基础配置仍会备份并重建。第一行填写代理端口，第二行填写 IP，留空使用 "127.0.0.1"。初始化全部成功后会弹出完成提示，点击「确认」关闭。概览会分别显示当前 CLI 模式和启动保护安装状态；模式依据当前启动配置判断，异常覆盖不会直接归类为官方独立 CLI。各选项的作用和填写方法见 [初始化选项](Settings.md)。
+「初始化」支持代理开关（默认开启，端口 `10808`）、四项可选功能（子代理默认关闭，其余默认开启），以及推荐／手动选择模型。每次完整初始化都会先完整备份全局 `CODEX_HOME\AGENTS.md`，再用RTK 引用和基础工作规则重建；文件夹管理块、Luna 子代理块只在对应选项勾选时追加。子代理多线程未勾选时会将 `multi_agent` 设为 `false`，并且不写入 Luna 块或基础规则中的 `SUBAGENTS` 段落。旧的全局自定义内容只保存在本次会话备份中，项目目录中的 `AGENTS.md` 不受影响。基础配置仍会备份并重建。第一行填写代理端口，第二行填写 IP，留空使用 "127.0.0.1"。初始化全部成功后会弹出完成提示，点击「确认」关闭。概览会分别显示当前 CLI 模式和启动保护安装状态；模式依据当前启动配置判断，异常覆盖不会直接归类为官方独立 CLI。各选项的作用和填写方法见 [初始化选项](Settings.md)。
 
 确认页会明确提示这是全局重置。原 `AGENTS.md` 的完整副本位于本次初始化会话的 `Backups\AGENTS.md`，由该会话已有的 `Rollback.cmd` 恢复；项目目录中的 `AGENTS.md` 不属于重置范围。
 
@@ -56,7 +56,7 @@ v2.0.10 已发布：[BerryFuwawa/codex-init-kit v2.0.10](https://github.com/Berr
 
 | 项目 | 默认值或位置 |
 | --- | --- |
-| 版本 | `2.0.10` |
+| 版本 | `2.0.11` |
 | 内嵌初始化组件 | `4.8.3` |
 | 内嵌启动保护组件 | `5.2.1` |
 | 工作目录 | `<盘符>:\Codex`；默认选 `D`，不可用时选择第一个可用固定盘 |

diff --git a/README.md b/README.md
@@ -55,7 +55,7 @@
 
 ## 第一次用，怎么选？
 
-初始化页面可以选择代理、功能和模型。HTTP 代理默认开启，端口预填 `10808`，IP 留空使用 `127.0.0.1`；文件夹管理、CLI 启动保护和 CUA 默认勾选，子代理默认不勾选。也可以选择「自定义」填写父模型和子代理模型 ID。
+初始化页面可以选择代理、功能和模型。HTTP 代理默认开启，端口预填 `10808`，IP 留空使用 `127.0.0.1`；文件夹管理、CLI 启动保护和 CUA 默认勾选，子代理默认不勾选。模型默认使用推荐组合，也可切换到「选择模型与思考强度」，用下拉框分别选择。
 
 **初始化会先备份，再清空重建全局 `AGENTS.md`。** 新文件包含 RTK 引用和基础规则，文件夹、子代理规则只在勾选时写入。不勾选子代理时，多线程配置关闭，也不会留下旧 Luna 指令或基础规则中的并行要求。旧的全局自定义内容只保存在备份中；各项目自己的 `AGENTS.md` 不受影响。
 
@@ -110,7 +110,9 @@
 | 并行与深度 | 最多 6 个子代理，委派深度 1 |
 | HTTP 代理 | 默认开启，`http://127.0.0.1:10808`；可填写端口、IP 或取消勾选关闭 |
 
-端口按 V2RayN 常用设置预填，也可使用 Clash 等软件提供的 HTTP／混合端口。使用软路由时，第一行填写它的代理端口，第二行填写 IP，例如 `192.168.1.1`；IP 留空使用 `127.0.0.1`。自定义模型的思考强度沿用父模型 `medium`、子代理 `max`，请以实际账号可用的模型为准。
+端口按 V2RayN 常用设置预填，也可使用 Clash 等软件提供的 HTTP／混合端口。使用软路由时，第一行填写它的代理端口，第二行填写 IP，例如 `192.168.1.1`；IP 留空使用 `127.0.0.1`。
+
+父模型、子代理模型和各自的思考强度均通过下拉框选择，不支持手动输入。内置 8 个模型，按 2026-10-04 官方 Codex 客户端返回的模型元数据预设；思考强度随所选模型展示对应档位。子代理未勾选时也可以提前选择，勾选后才会写入。「检查所选配置」核对模型与强度组合。列表随本工具版本更新，不依赖本机缓存；实际调用权限仍取决于账号。
 
 工作根目录包含 `Conversations`、`Projects`、`OUT`、`Temp`、`Shared`、`Archive`、`Config` 和 `Docs` 八个子目录。已有工作文件不会自动搬迁。
 
@@ -138,7 +140,7 @@
 ![Codex Init Kit 概览页面](assets/screenshots/overview.png)
 
 <details>
-<summary>展开查看初始化选项：代理开关、四项功能和自定义模型</summary>
+<summary>展开查看初始化选项：代理开关、四项功能和模型选择</summary>
 
 ![Codex Init Kit 初始化设置完整内容预览](assets/screenshots/settings.png)
 
@@ -148,7 +150,7 @@
 
 ![Codex Init Kit 维护恢复页面](assets/screenshots/maintenance.png)
 
-图片来自当前 2.0.10 EXE，按 192 DPI（200% 缩放）离线渲染，点击图片可查看高清原图。初始化设置图包含代理端口与 IP、四项功能选择和自定义模型；子代理默认未勾选。图中展开了完整内容，实际窗口可滚动。概览使用示例状态，未执行真实初始化或修复，状态以你电脑上的检测结果为准。
+图片来自当前 2.0.11 EXE，按 192 DPI（200% 缩放）离线渲染，点击图片可查看高清原图。初始化设置图包含代理端口与 IP、四项功能选择和模型选择；子代理默认未勾选。模型设置图展示模型选择模式，默认仍使用推荐模型。图中展开了完整内容，实际窗口可滚动。概览使用示例状态，未执行真实初始化或修复，状态以你电脑上的检测结果为准。
 
 ## CLI 验证与源码构建
 

diff --git a/docs/Settings.md b/docs/Settings.md
@@ -1,4 +1,4 @@
-# 初始化选项（2.0.10）
+# 初始化选项（2.0.11）
 
 可在初始化页面选择代理、功能和模型，确认页会展示本次实际选择。
 
@@ -25,7 +25,17 @@
 
 默认选择「使用推荐模型」：父模型 `gpt-6.1-sol / medium`，子代理 `gpt-5.6-luna / max`。
 
-选择「自定义父模型与子代理模型」后，可以填写两者的模型 ID，例如 `gpt-6.1-sol`。子代理功能关闭时不需要填写子代理模型。父模型思考强度沿用 `medium`，子代理沿用 `max`；请使用支持这些设置、且账号有权限使用的模型。工具检查输入格式，不验证模型服务端可用性。
+选择「选择模型与思考强度」后，父模型、子代理模型和各自的思考强度均用下拉框选择，不提供手动输入。切换模型时，思考强度只显示对应模型支持的档位。子代理未勾选时也能提前设置，但本次初始化不会写入这些子代理设置。
+
+列表按 2026-10-04 官方 Codex 客户端返回的模型元数据预置，不依赖本机缓存。点击「检查所选配置」，会核对所选模型和强度组合；非预设模型、不支持的强度不能继续。此检查不调用模型，不代表当前账号一定有调用权限。模型列表随本工具版本更新。
+
+| 模型 | 可选思考强度 |
+| --- | --- |
+| `gpt-6.1-sol`、`gpt-6-astra`、`gpt-6-sol`、`gpt-5.6-sol`、`gpt-5.6-terra` | `low`、`medium`、`high`、`xhigh`、`max`、`ultra` |
+| `gpt-6-luna`、`gpt-5.6-luna` | `low`、`medium`、`high`、`xhigh`、`max` |
+| `gpt-5.5` | `low`、`medium`、`high`、`xhigh` |
+
+确认页会展示本次实际写入的模型 ID、强度和核对结果。模型与强度支持项的接口定义见 [官方 App Server 模型说明](https://learn.chatgpt.com/docs/app-server#models)。
 
 执行前的确认页会列出实际选择的模型、代理状态和功能开关。下拉框与勾选框使用统一的深色样式，支持鼠标和键盘操作。
 

diff --git a/docs/Release-2.0.11.md b/docs/Release-2.0.11.md
@@ -1,0 +1,9 @@
+# Codex Init Kit 2.0.11
+
+- 父模型、子代理模型均用下拉框选择，预置 8 个官方 Codex 模型，不提供手动输入。
+- 父模型、子代理各有思考强度下拉框，切换模型时只显示对应档位；确认页显示实际选择，初始化按选择写入。
+- 子代理未勾选时也能提前选择模型和强度；是否启用仍由功能勾选决定。
+- 增加「检查所选配置」，阻止非预设模型和不支持的强度组合。内置列表按 2026-10-04 官方客户端模型元数据预设，不依赖本机缓存；实际调用权限取决于账号。
+- 修复 Windows 换行格式下子代理自定义设置可能未正确写入的问题。
+
+已通过 CLI 自验、模型检查与自定义思考强度回归，并更新高清界面预览。验证未执行真实初始化。

diff --git a/docs/Scripts.md b/docs/Scripts.md
@@ -2,7 +2,7 @@
 
 普通使用建议下载 EXE，在窗口里选择操作。下面的 CMD 是保留给习惯脚本操作的用户的入口，EXE 已经包含它们，不需要额外下载。
 
-桌面版 2.0.10 使用第 1 步内部版本 4.8.3 和第 2 步内部版本 5.2.1；脚本文件名沿用稳定入口名称。
+桌面版 2.0.11 使用第 1 步内部版本 4.8.3 和第 2 步内部版本 5.2.1；脚本文件名沿用稳定入口名称。
 
 **第 1 步负责“把配置整理好”**：目录放哪、模型用哪个、代理端口是多少，以及电脑操作组件是否完整。完整初始化会先备份再重建配置。
 
